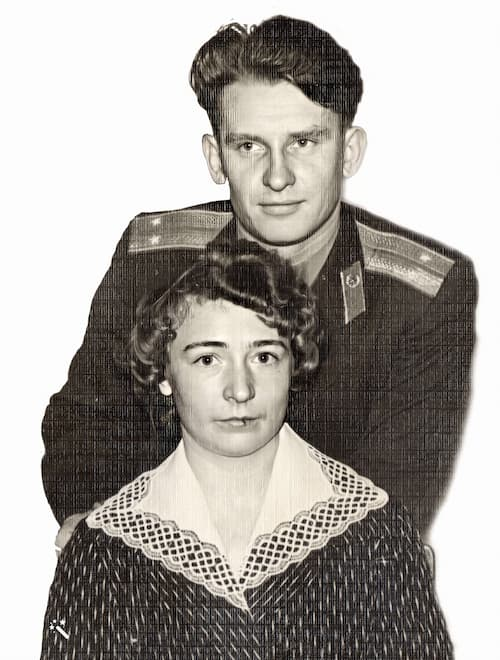
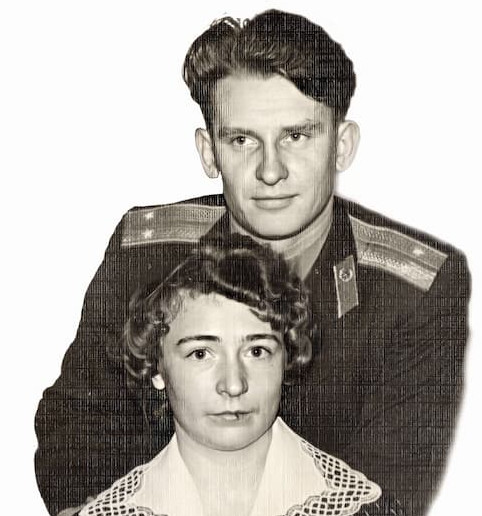
change

diff --git a/styles.css b/styles.css
@@ -552,7 +552,7 @@ p {
   }
 
   .post img {
-        height: 200px;
+        height: 300px;
         object-position: top;
     }
 
